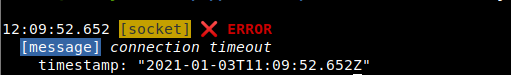
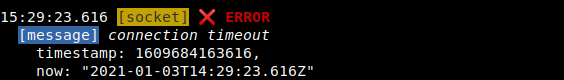
feat: printing

diff --git a/src/peppino.js b/src/peppino.js
@@ -70,9 +70,11 @@ const log = {
       return
     }
     _singleton = log.set(settings)
+
     for (const level of LEVELS) {
       log[level] = _singleton[level].bind(_singleton)
     }
+    log.printing = _singleton.isLevelEnabled.bind(_singleton)
     return log
   },
 

diff --git a/examples/use-formatters.js b/examples/use-formatters.js
@@ -6,5 +6,6 @@ log.init({ pretty: true })
 log.error({
   ns: 'socket',
   message: 'connection timeout',
-  'timestamp:epoch': Date.now()
+  timestamp: Date.now(),
+  'now:epoch': Date.now()
 })

diff --git a/README.md b/README.md
@@ -76,6 +76,8 @@ Default settings:
   use namespaces and apply filter on `pretty`
 - **singleton**
   use the singleton or create a new indipendent instance with different settings
+- **formatters**
+  customize formatters, see [#formatters](formatter section).
 - **original**
   append original [pino options](https://github.com/pinojs/pino/blob/master/docs/api.md#options)
 
@@ -88,6 +90,20 @@ init logger with settings, everything is optional
 ### .set
 
 update settings for the singleton or existing instance
+
+### .printing
+
+says if level is enabled or not
+
+```js
+const log = require('peppino')
+log.init({ level: 'warn' })
+log.printing('info')
+// > false
+
+log.printing('error')
+// > true
+```
 
 ### .timer
 
@@ -169,13 +185,14 @@ or
 
 ### Formatters
 
-Specify how to format keys adding the formatter to log entries keys
+Specify how to format entries adding the formatter to keys
 
 ```js
 log.error({
   ns: 'socket',
   message: 'connection timeout',
-  'timestamp:epoch': Date.now()
+  timestamp: Date.now(),
+  'now:epoch': Date.now()
 })
 ```
 
@@ -206,7 +223,8 @@ log.init({
 ## TODO
 
 - [ ] test coverage
-  - [ ] test formatters
+  - [ ] formatters
+  - [ ] printing
 - [ ] full trace by `stack-trace`
 - [ ] custom serializers
 
